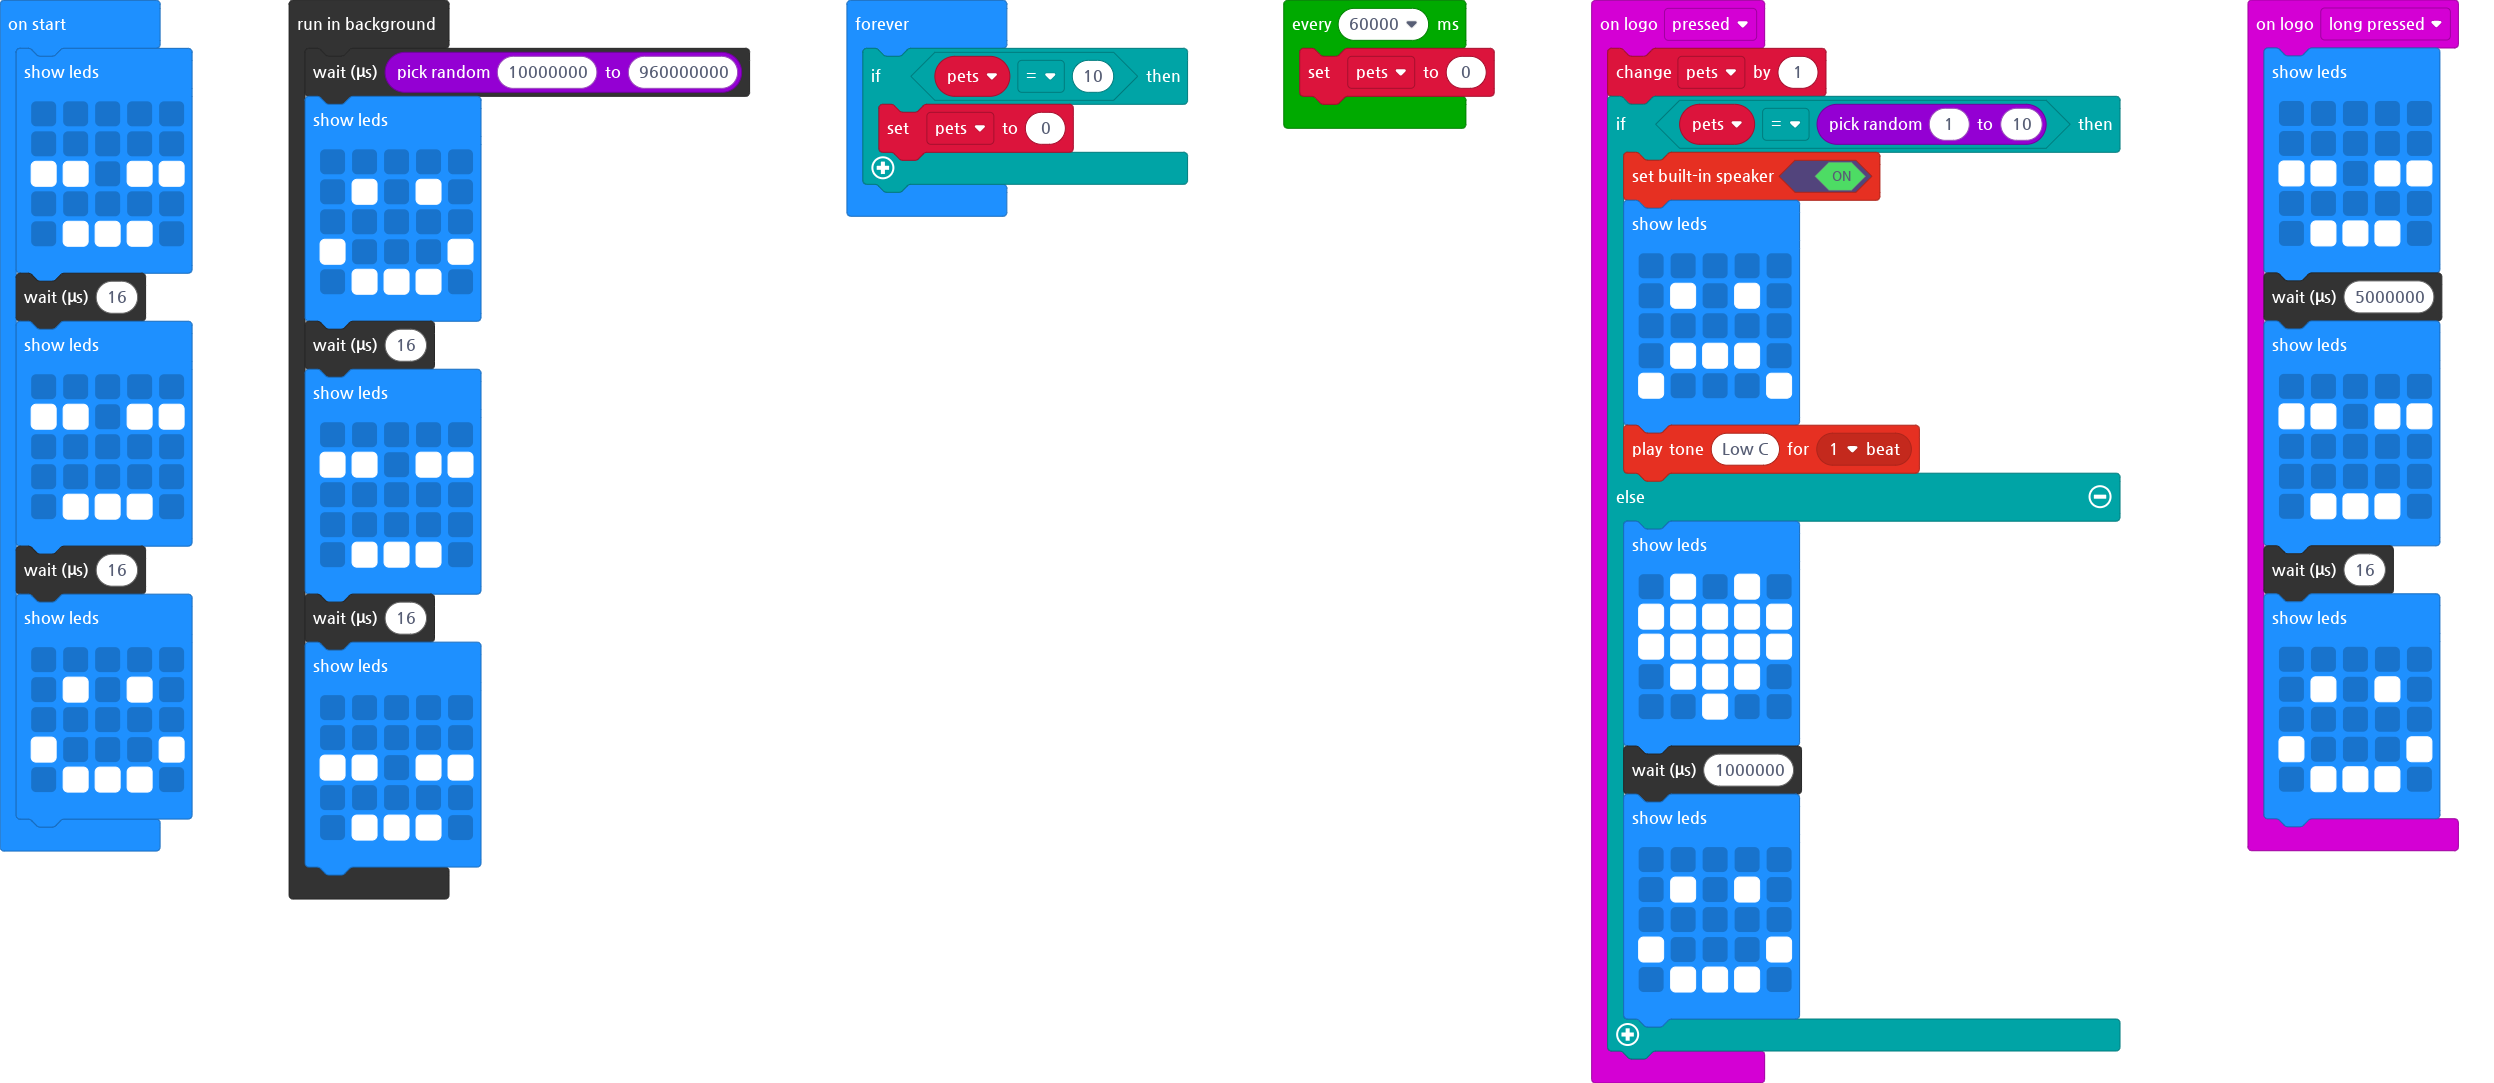
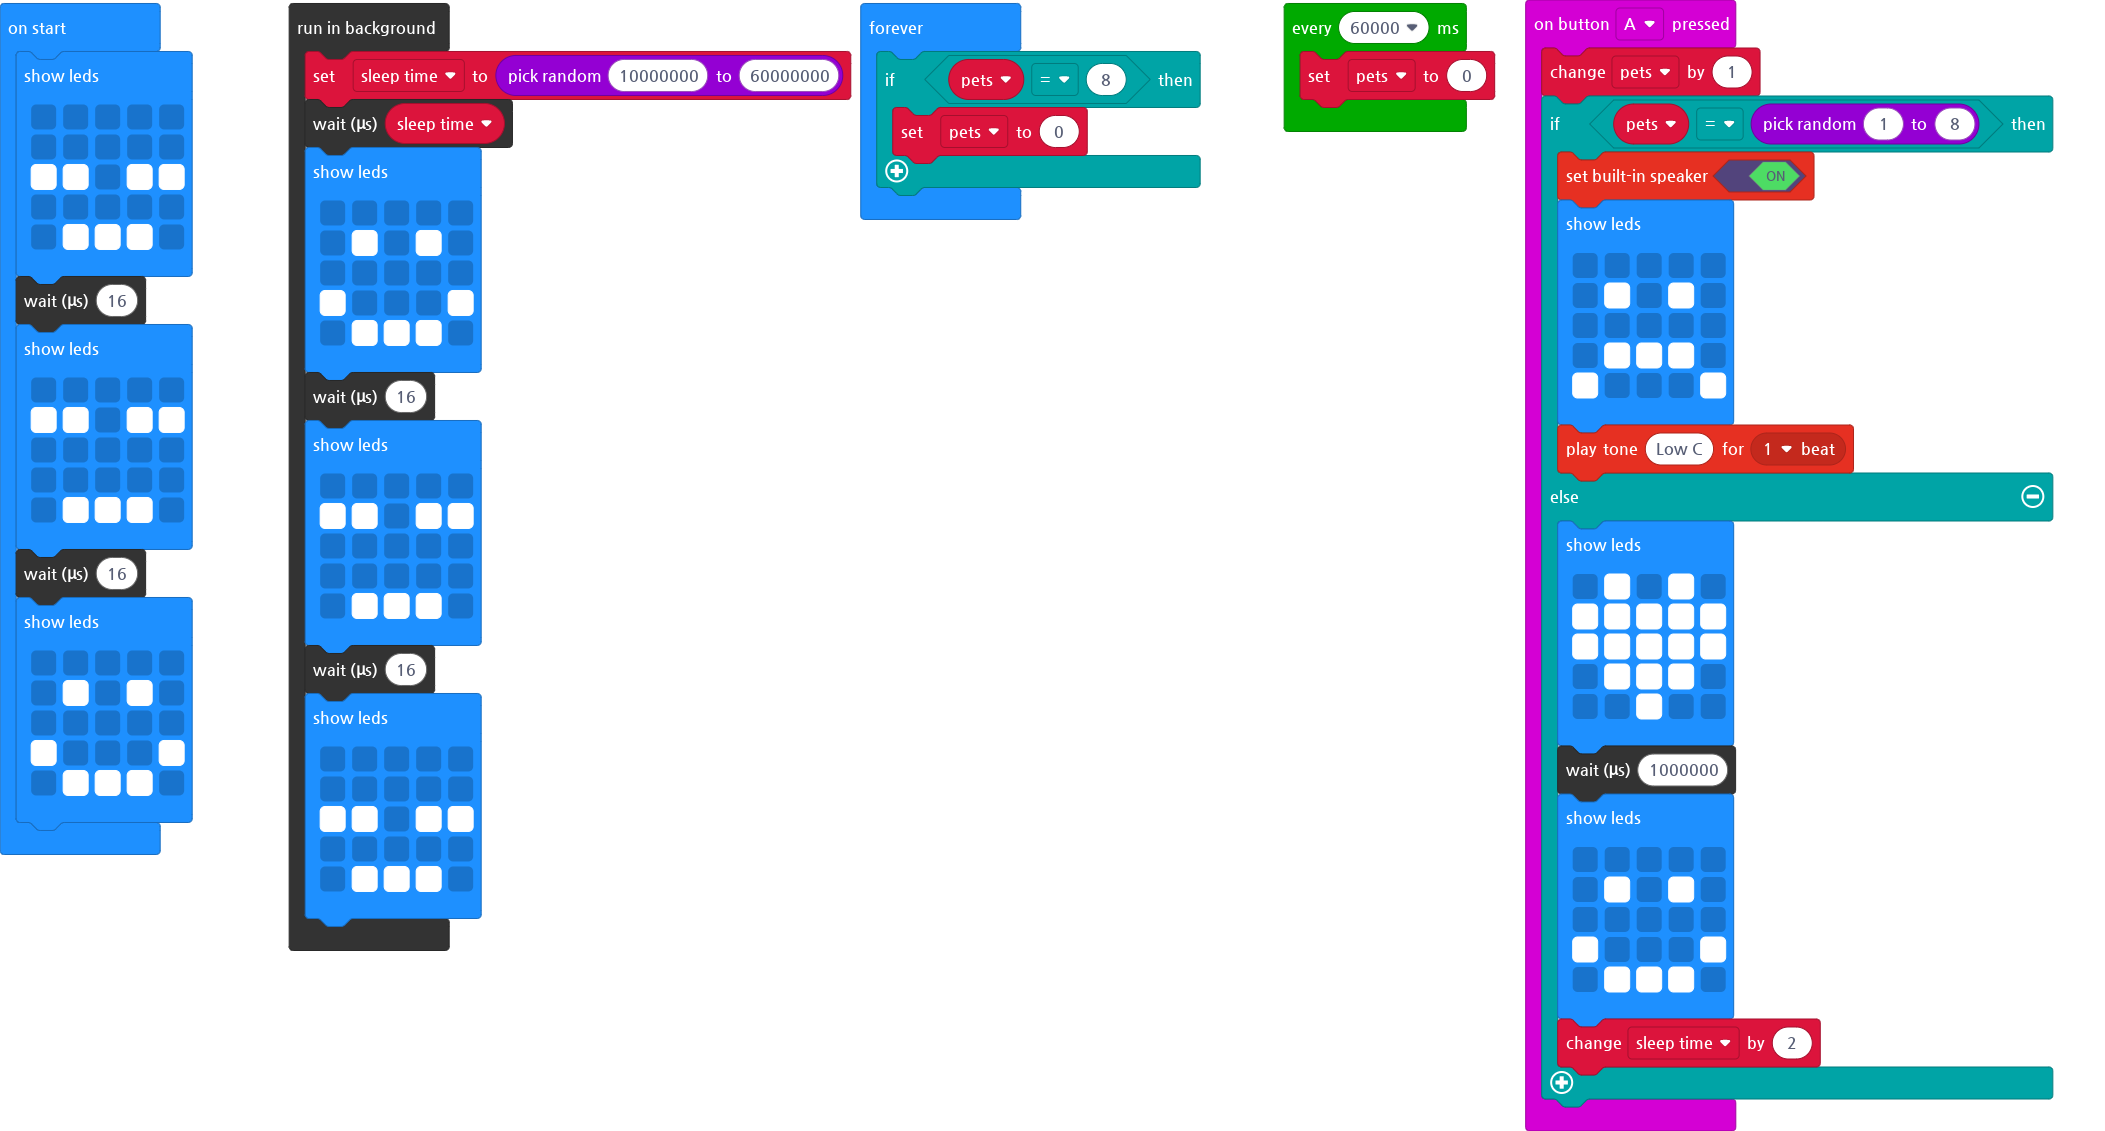
Update main.blocks, main.ts

diff --git a/main.ts b/main.ts
@@ -1,31 +1,6 @@
-input.onLogoEvent(TouchButtonEvent.LongPressed, function () {
-    basic.showLeds(`
-        . . . . .
-        . . . . .
-        # # . # #
-        . . . . .
-        . # # # .
-        `)
-    control.waitMicros(5000000)
-    basic.showLeds(`
-        . . . . .
-        # # . # #
-        . . . . .
-        . . . . .
-        . # # # .
-        `)
-    control.waitMicros(16)
-    basic.showLeds(`
-        . . . . .
-        . # . # .
-        . . . . .
-        # . . . #
-        . # # # .
-        `)
-})
-input.onLogoEvent(TouchButtonEvent.Pressed, function () {
+input.onButtonPressed(Button.A, function () {
     pets += 1
-    if (pets == randint(1, 10)) {
+    if (pets == randint(1, 8)) {
         music.setBuiltInSpeakerEnabled(true)
         basic.showLeds(`
             . . . . .
@@ -51,8 +26,10 @@ input.onLogoEvent(TouchButtonEvent.Pressed, function () {
             # . . . #
             . # # # .
             `)
+        sleep_time += 2
     }
 })
+let sleep_time = 0
 let pets = 0
 basic.showLeds(`
     . . . . .
@@ -81,12 +58,13 @@ loops.everyInterval(60000, function () {
     pets = 0
 })
 basic.forever(function () {
-    if (pets == 10) {
+    if (pets == 8) {
         pets = 0
     }
 })
 control.inBackground(function () {
-    control.waitMicros(randint(10000000, 960000000))
+    sleep_time = randint(10000000, 60000000)
+    control.waitMicros(sleep_time)
     basic.showLeds(`
         . . . . .
         . # . # .
